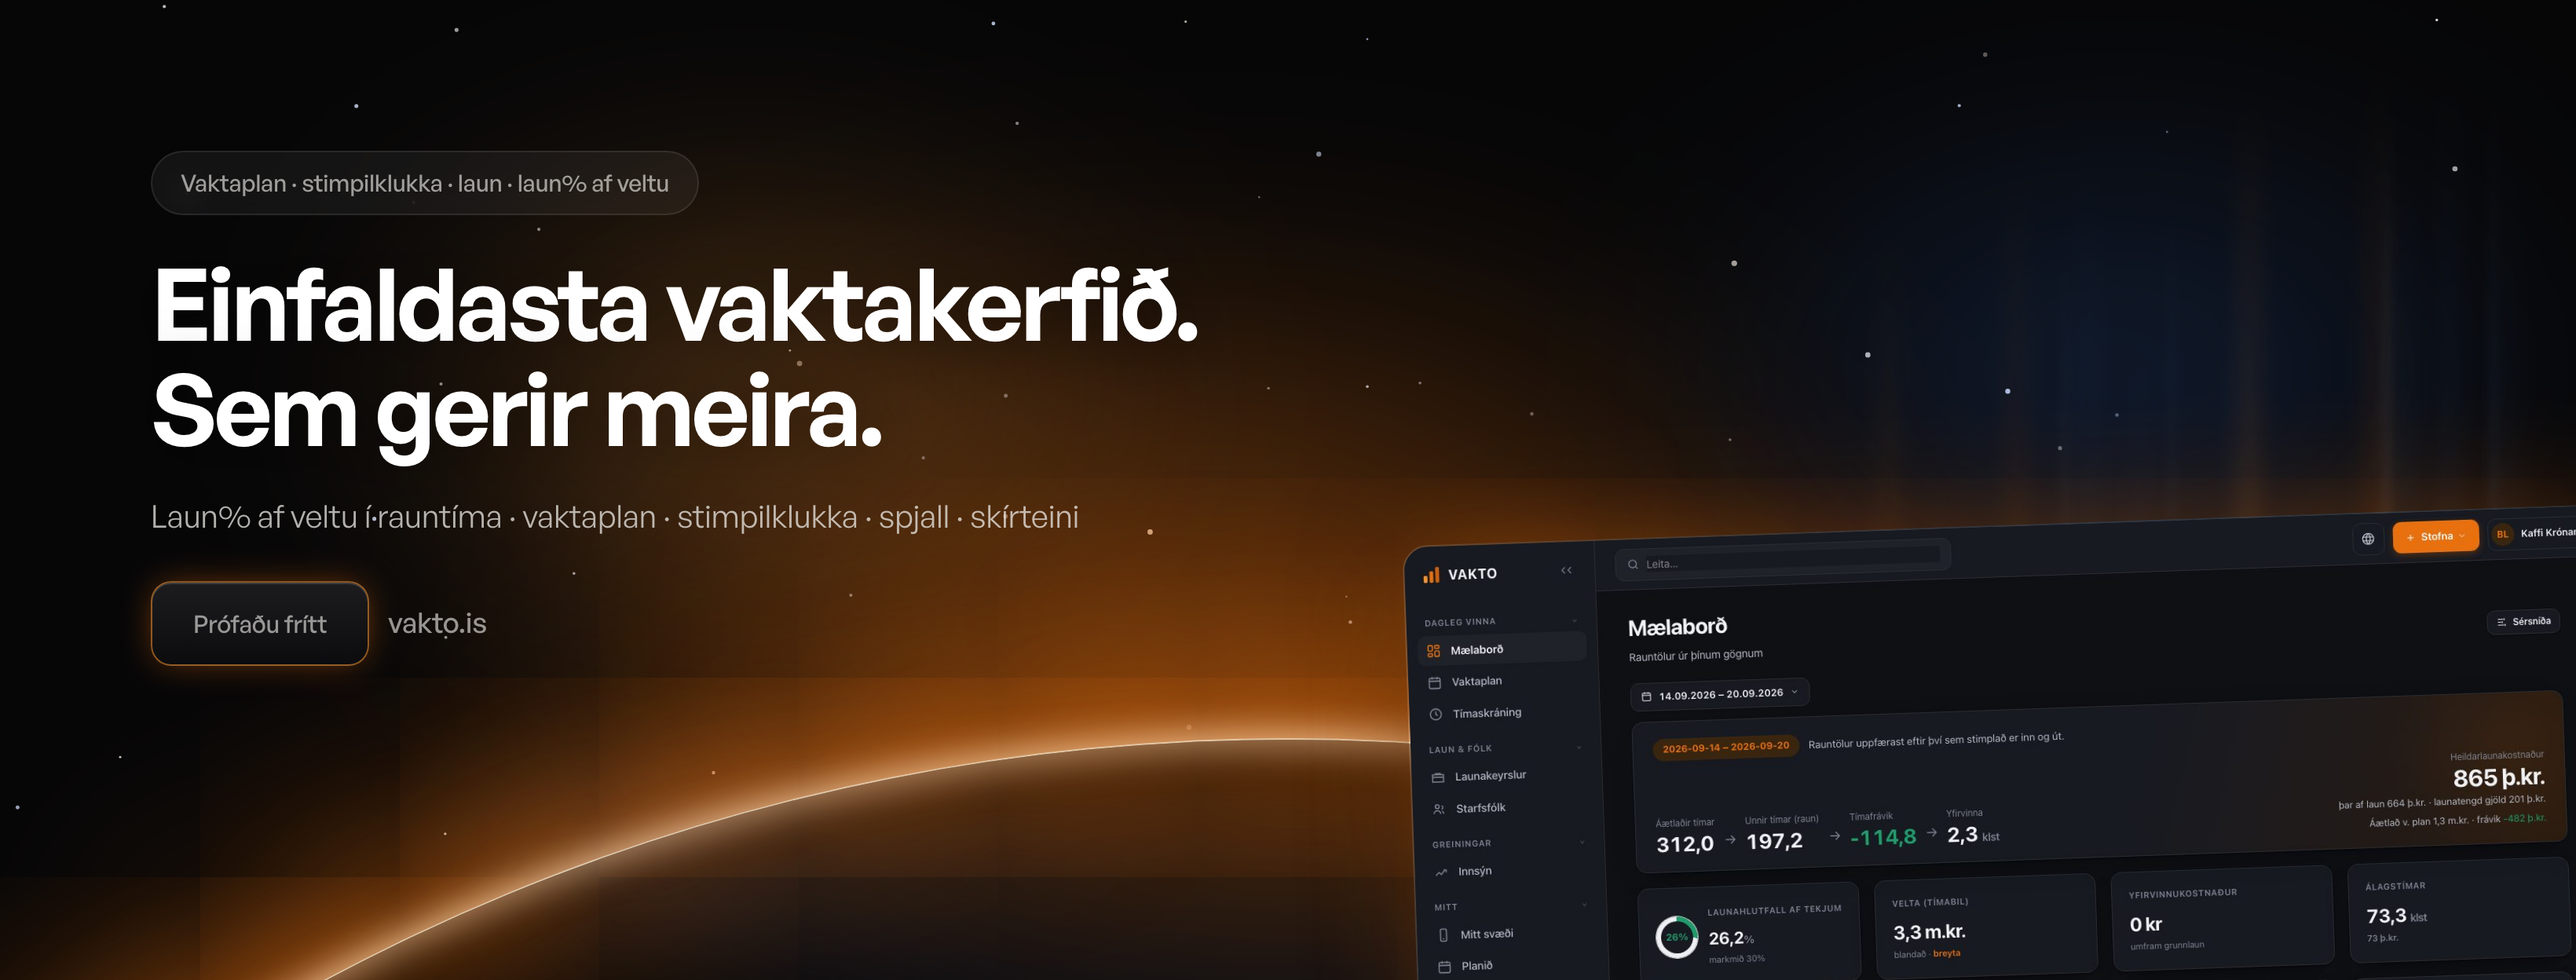
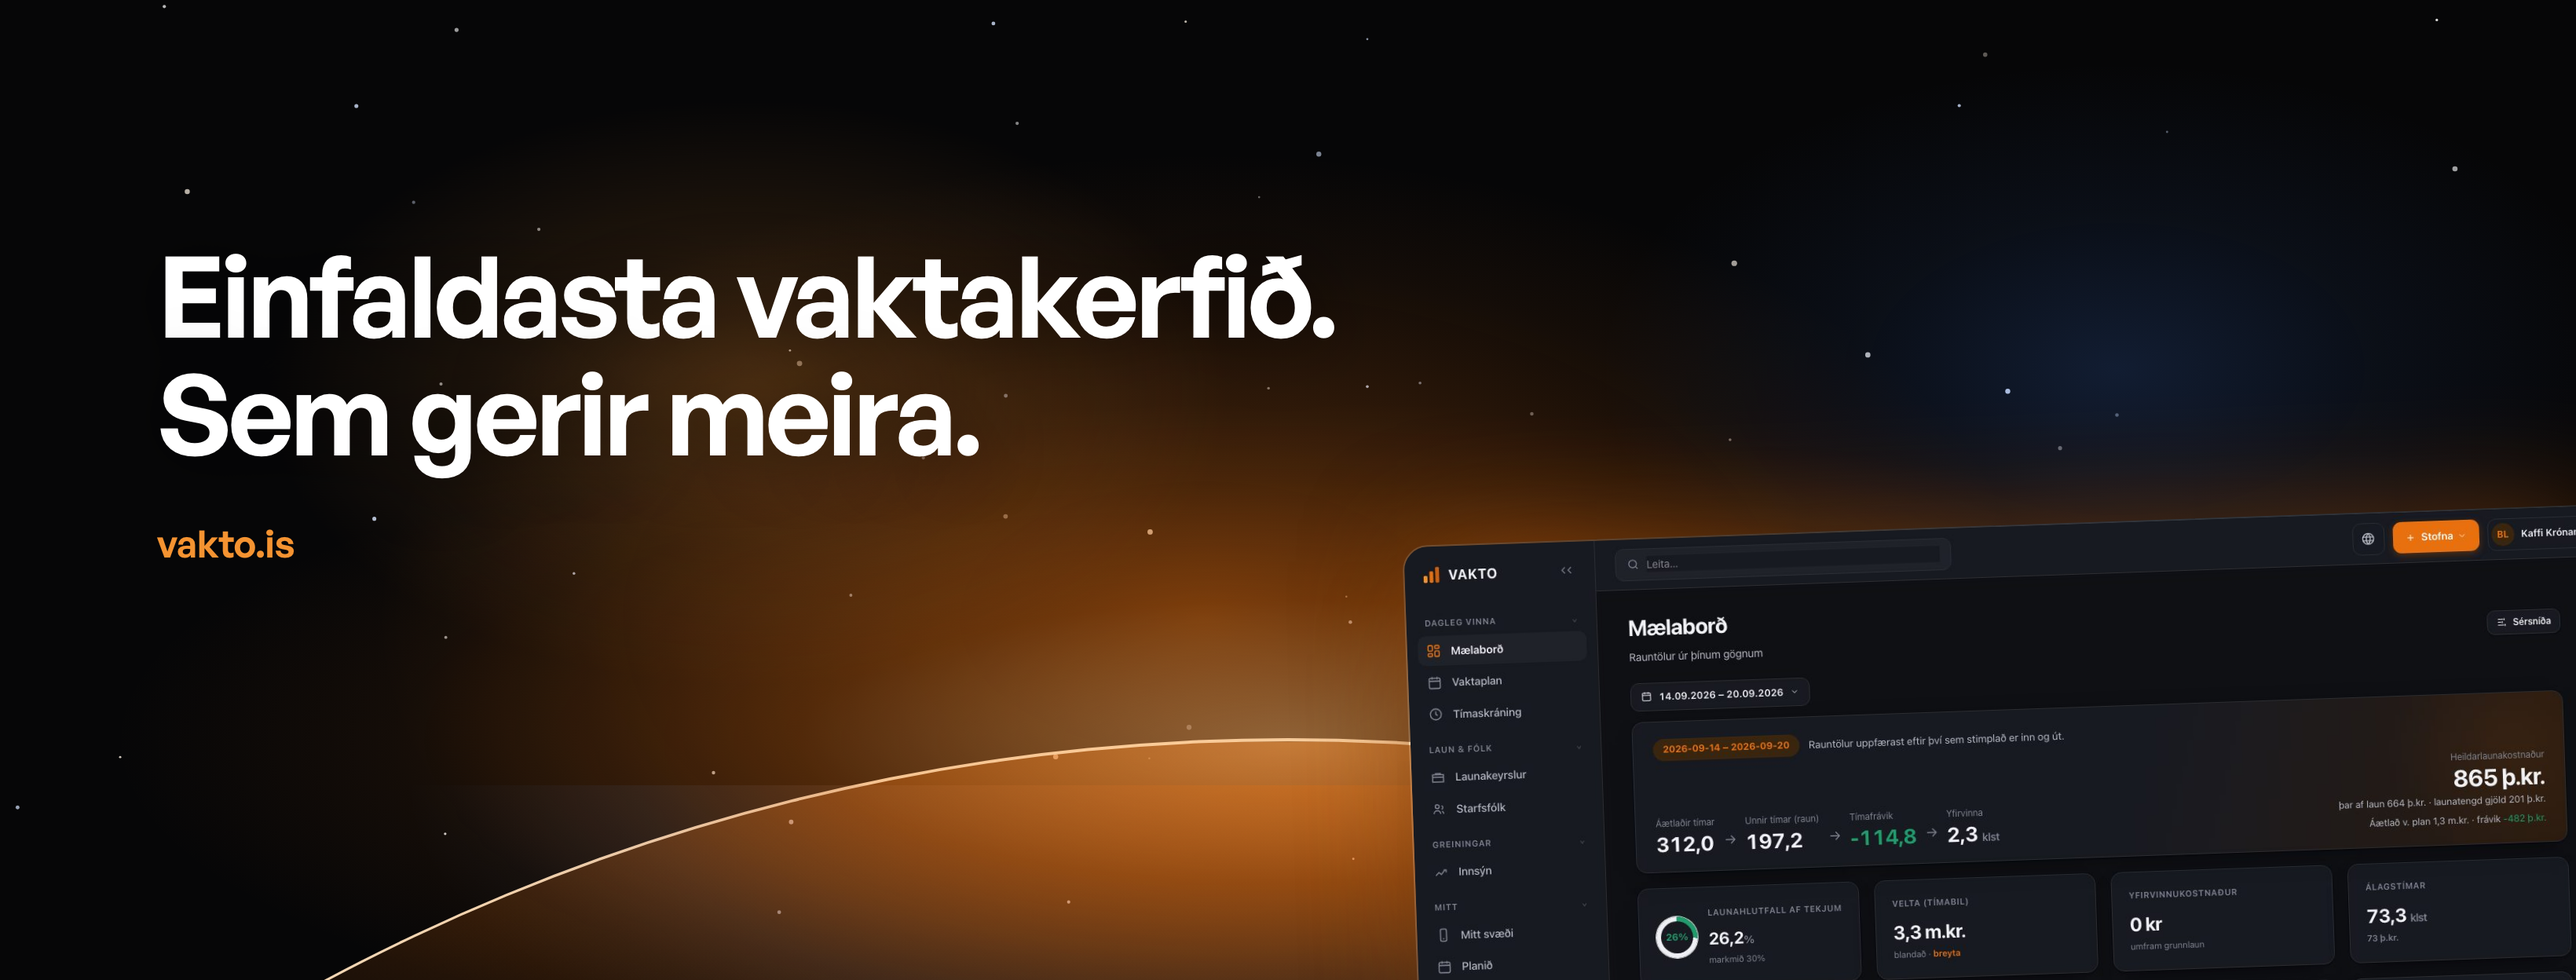
FB-forsíðumynd: aðeins fyrirsögn + vakto.is; ljóminn með gradíentum í stað blur/skugga svo kyrrmyndin sé án ferninga
Claude-Session: https://claude.ai/code/session_01NsDUYcTH8AURVjNhRkVmHT

diff --git a/src/app/og/og.css b/src/app/og/og.css
@@ -1,6 +1,12 @@
 /* Social images rendered from the hero: fixed canvases, no motion. */
 .og{position:relative;overflow:hidden;background:#060607;isolation:isolate}
 .og .ny-aurora,.og .ny-aurora i,.og .ny-stars,.og .ny-rays,.og .ny-underglow,.og .ny-hin{animation:none!important;opacity:1}
+/* no CSS blur in the static render (headless tiles it into visible squares): soft gradients do the job */
+.og .ny-aurora i{filter:none!important}
+.og .ny-rays{display:none}
+.og .ny-aurora .a1{background:radial-gradient(50% 50% at 50% 60%,rgba(233,112,15,.38) 0,rgba(233,112,15,.18) 35%,rgba(233,112,15,.06) 60%,transparent 78%)}
+.og .ny-aurora .a2{background:radial-gradient(50% 50% at 50% 50%,rgba(245,147,49,.26) 0,rgba(245,147,49,.1) 40%,transparent 75%)}
+.og .ny-aurora .a3{background:radial-gradient(50% 50% at 50% 50%,rgba(64,120,220,.2) 0,rgba(64,120,220,.07) 40%,transparent 75%)}
 .og-cover{width:1640px;height:624px}
 .og-cover .ny-aurora .a1{top:-10%}
 .og-cover .ny-aurora .a2{top:0}
@@ -8,11 +14,11 @@
 .og-cover .ny-rays{top:-40%}
 .og-cover .ny-horizon{top:470px}
 .og-cover .ny-underglow{top:500px}
-.og-cover .txt{position:absolute;left:96px;top:96px;z-index:2;max-width:820px}
+.og-cover .txt{position:absolute;left:100px;top:150px;z-index:2;max-width:900px}
 .og-cover .ny-pill{font-size:15px;padding:8px 18px}
-.og-cover h1{font-size:64px;margin:22px 0 0;color:#fff;line-height:1.04;letter-spacing:-.035em;text-shadow:0 2px 40px rgba(0,0,0,.5)}
+.og-cover h1{font-size:72px;margin:0;color:#fff;line-height:1.04;letter-spacing:-.035em;text-shadow:0 2px 40px rgba(0,0,0,.5)}
 .og-cover .sub{font-size:20px;color:rgba(244,242,238,.72);margin:22px 0 0;line-height:1.5;max-width:640px}
-.og-cover .cta{display:inline-flex;align-items:center;gap:12px;margin-top:26px;font-size:18px;font-weight:600;color:#fff}
+.og-cover .site{display:block;margin-top:28px;font-size:24px;font-weight:600;color:#f59331;letter-spacing:-.01em}
 .og-cover .cta .ny-btn{pointer-events:none}
 .og-cover .cta span{color:rgba(244,242,238,.6);font-weight:500}
 .og-cover .shot{position:absolute;right:-40px;bottom:-150px;width:780px;z-index:2;border-radius:16px;overflow:hidden;
@@ -29,3 +35,9 @@
 .og-profile .mark{position:absolute;inset:0;display:flex;flex-direction:column;align-items:center;justify-content:center;gap:40px;z-index:2}
 .og-profile .mark svg{filter:drop-shadow(0 0 60px rgba(233,112,15,.55)) drop-shadow(0 30px 40px rgba(0,0,0,.6))}
 .og-profile .mark b{font-size:96px;font-weight:700;letter-spacing:.1em;color:#fff;text-shadow:0 2px 40px rgba(0,0,0,.6)}
+/* horizon without giant box-shadows (software raster tiles them): gradients instead */
+.og .ny-horizon{box-shadow:none;border-top:2px solid rgba(255,226,190,.95);
+  background:radial-gradient(60% 16% at 50% 0%,rgba(233,112,15,.55) 0,rgba(233,112,15,.22) 35%,rgba(233,112,15,.06) 60%,#060607 78%)}
+.og .ny-horizon::before{content:"";position:absolute;left:10%;right:10%;top:-300px;height:600px;border-radius:50%;
+  background:radial-gradient(50% 50% at 50% 50%,rgba(255,190,120,.42) 0,rgba(233,112,15,.22) 30%,rgba(233,112,15,.06) 55%,transparent 72%)}
+.og .ny-underglow{filter:none}

diff --git a/src/app/og/fb-cover/page.tsx b/src/app/og/fb-cover/page.tsx
@@ -19,10 +19,8 @@ export default function FbCoverPage() {
         <span className="ny-underglow" />
       </div>
       <div className="txt">
-        <span className="ny-pill">Vaktaplan · stimpilklukka · laun · laun% af veltu</span>
         <h1>Einfaldasta vaktakerfið.<br />Sem gerir meira.</h1>
-        <p className="sub">Laun% af veltu í rauntíma · vaktaplan · stimpilklukka · spjall · skírteini</p>
-        <div className="cta"><span className="ny-btn glow lg">Prófaðu frítt</span><span>vakto.is</span></div>
+        <span className="site">vakto.is</span>
       </div>
       <div className="shot"><img src="/showcase/2026/maelabord.jpg" alt="" /></div>
     </div>
